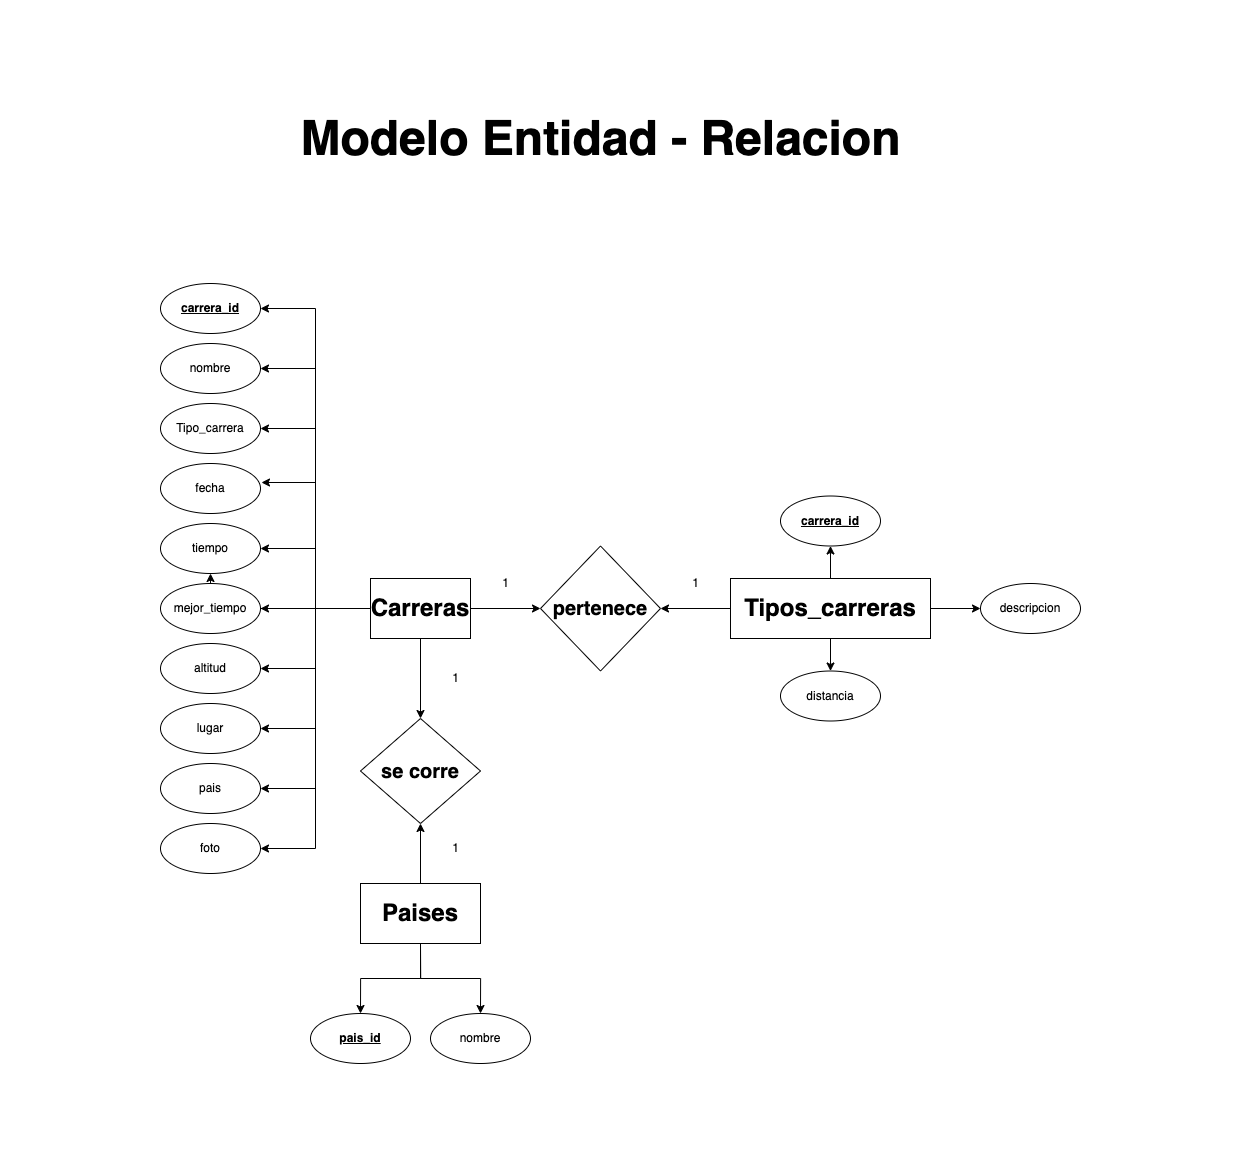
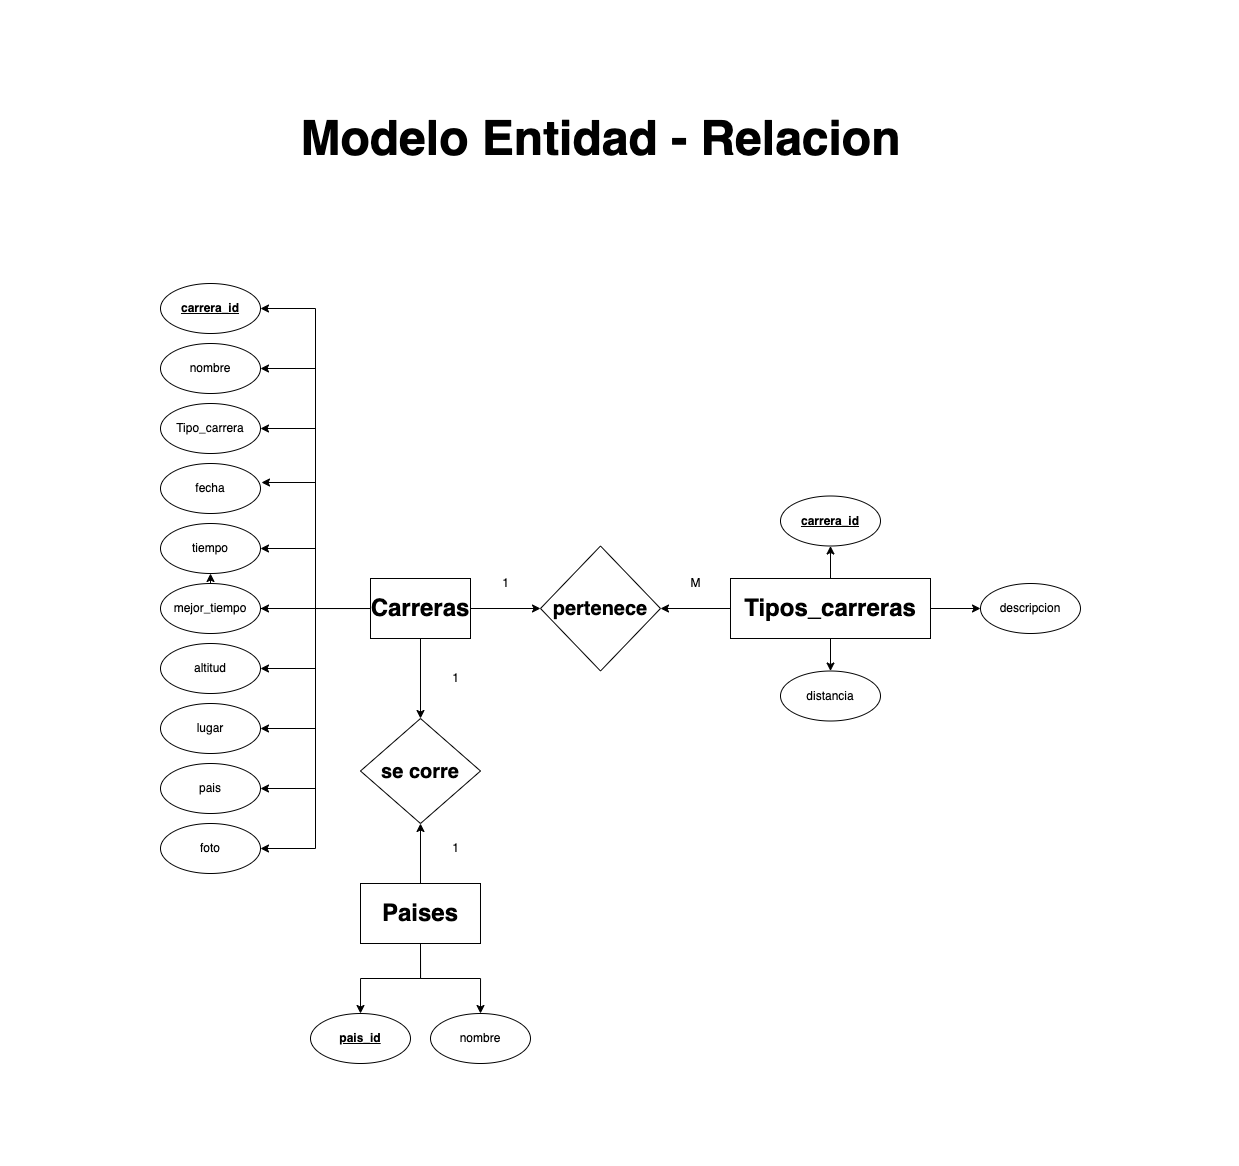
base de datos para un sistema de ventas completo

diff --git a/Ventas_LogicaNegocio.md b/Ventas_LogicaNegocio.md
@@ -1,0 +1,106 @@
+# Ventas
+
+## Listado de Entidades
+
+### Clientes **(ED)**
+
+- cliente_id **(PK)**
+- nombre
+- apellidos
+- telefono **(UQ)**
+- email **(UQ)**
+- direccion
+- cp
+- ciudad
+- pais **(FK)**
+
+### Productos **(ED|EC)**
+
+- producto_id **(PK)**
+- nombre
+- descripcion
+- foto
+- precio
+- cantidad
+
+### ventas **(ED)**
+
+- venta_id **(PK)**
+- cliente_id **(FK)**
+- fecha
+- monto
+
+### articulos_x_venta **(EP)**
+
+- articulo_id **(PK)**
+- venta_id **(FK)**
+- producto_id **(FK)**
+- cantidad
+
+### paises **(EC)**
+
+- pais_id **(PK)**
+- nombre
+- dominio **(UQ)**
+
+## Relaciones
+
+1. Un **cliente** tiene **pais** (_1 - 1_).
+1. Una **cleinte** genera **ventas** (_1 - M_).
+1. Una **venta** tiene **articulos** (_1 - M_).
+1. Un **articulo** es un **producto** (_1 - 1_).
+
+## Diagramas
+
+
+### Modelo Relacional de la DB
+
+![Modelo Relacional de la DB](./Ventas_ModeloRelacionalDB.png)
+
+## Reglas de negocio
+
+### clientes
+
+1. Crear un cliente.
+1. Leer todos los clientes.
+1. Leer un cliente en particular.
+1. Actualizar un cliente.
+1. Eliminar un cliente.
+
+### productos
+
+1. Crear un producto.
+1. Leer todos los productos.
+1. Leer un producto en particular.
+1. Actualizar un producto.
+1. Eliminar un producto.
+1. Cada vez que haya una venta restar la cantidad de productos disponibles, el numero de articulos que se vendieron.
+
+### ventas
+
+1. Crear un venta.
+1. Leer todas las ventas.
+1. Leer una venta en particular.
+1. Leer todas las ventas de un cliente.
+1. Leer todas las ventas de un producto.
+1. Actualizar un cliente.
+1. Eliminar un cliente.
+
+### articulos_x_venta
+
+1. Crear un articulo.
+1. Leer todos los articulos.
+1. Leer un articulo en particular.
+1. Leer todos los articulos de una venta.
+1. Leer todos los articulos de una producto.
+1. Leer todos los articulos de una cliente.
+1. Actualizar un articulo
+1. Eliminar un articulo
+
+### pais
+
+1. Crear un pais.
+1. Leer todos los paises.
+1. Leer un pais en particular.
+1. Actualizar un pais.
+1. Eliminar un pais.

diff --git a/Carreras_LogigaNegocio.md b/Carreras_LogigaNegocio.md
@@ -28,8 +28,8 @@
 
 ## Relaciones
 
-1. Una **carrera** _pertenece_ a un **tipo de carrera** (_1 a 1_)
-1. Una **carrera** se _corre_ en un **pais** (_1 a 1_)
+1. Una **carrera** _pertenece_ a un **tipo de carrera** (_1 a M_)
+1. Una **carrera** se _corre_ en un **pais** (_1 a M_)
 
 ## Diagramas
 
